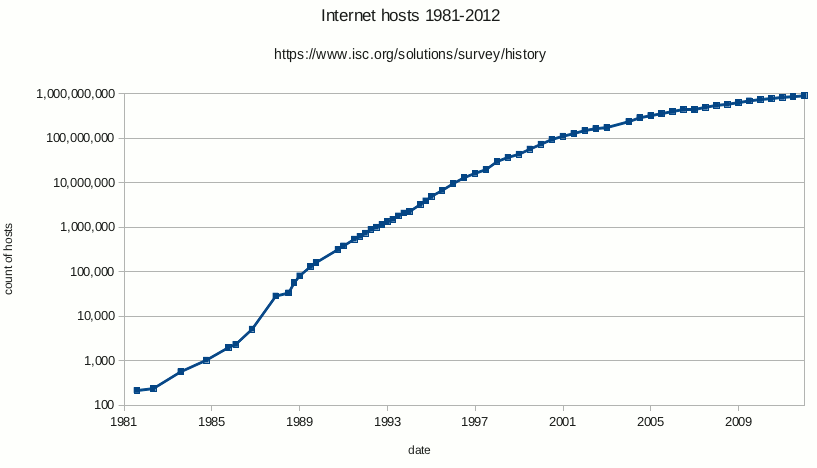
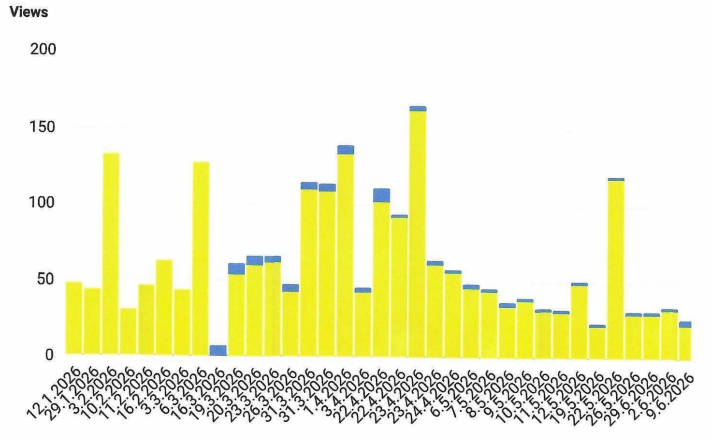
Add magnifying glass

diff --git a/app.js b/app.js
@@ -20,6 +20,10 @@ const emptyState = document.querySelector("#emptyState");
 const chartFrame = document.querySelector("#chartFrame");
 const canvas = document.querySelector("#chartCanvas");
 const ctx = canvas.getContext("2d");
+const magnifier = {
+  radiusCss: 74,
+  zoom: 3,
+};
 
 const state = {
   mode: "calibrate",
@@ -341,6 +345,86 @@ function drawHover(point) {
   ctx.restore();
 }
 
+function drawMagnifier(point) {
+  if (!point || !state.image) return;
+
+  const rect = canvas.getBoundingClientRect();
+  if (!rect.width || !rect.height) return;
+
+  const canvasPerCssPixel = (canvas.width / rect.width + canvas.height / rect.height) / 2;
+  const radius = magnifier.radiusCss * canvasPerCssPixel;
+  const sourceRadius = radius / magnifier.zoom;
+  const sourceLeft = point.x - sourceRadius;
+  const sourceTop = point.y - sourceRadius;
+  const clippedLeft = Math.max(0, sourceLeft);
+  const clippedTop = Math.max(0, sourceTop);
+  const clippedRight = Math.min(canvas.width, point.x + sourceRadius);
+  const clippedBottom = Math.min(canvas.height, point.y + sourceRadius);
+  const sourceWidth = clippedRight - clippedLeft;
+  const sourceHeight = clippedBottom - clippedTop;
+
+  if (sourceWidth <= 0 || sourceHeight <= 0) return;
+
+  ctx.save();
+  ctx.beginPath();
+  ctx.arc(point.x, point.y, radius, 0, Math.PI * 2);
+  ctx.clip();
+  ctx.fillStyle = "white";
+  ctx.fillRect(point.x - radius, point.y - radius, radius * 2, radius * 2);
+  ctx.imageSmoothingEnabled = false;
+  ctx.drawImage(
+    state.image,
+    clippedLeft,
+    clippedTop,
+    sourceWidth,
+    sourceHeight,
+    point.x - radius + (clippedLeft - sourceLeft) * magnifier.zoom,
+    point.y - radius + (clippedTop - sourceTop) * magnifier.zoom,
+    sourceWidth * magnifier.zoom,
+    sourceHeight * magnifier.zoom,
+  );
+  ctx.restore();
+
+  const lineWidth = 2 * canvasPerCssPixel;
+  const reticleOuter = 18 * canvasPerCssPixel;
+  const reticleGap = 4 * canvasPerCssPixel;
+  const reticleDot = 2.6 * canvasPerCssPixel;
+
+  ctx.save();
+  ctx.shadowColor = "rgba(15, 23, 42, 0.28)";
+  ctx.shadowBlur = 10 * canvasPerCssPixel;
+  ctx.shadowOffsetY = 3 * canvasPerCssPixel;
+  ctx.strokeStyle = "white";
+  ctx.lineWidth = 5 * canvasPerCssPixel;
+  ctx.beginPath();
+  ctx.arc(point.x, point.y, radius, 0, Math.PI * 2);
+  ctx.stroke();
+  ctx.shadowColor = "transparent";
+  ctx.strokeStyle = getCssVar("--accent");
+  ctx.lineWidth = lineWidth;
+  ctx.stroke();
+
+  ctx.lineCap = "round";
+  ctx.strokeStyle = "rgba(15, 23, 42, 0.86)";
+  ctx.lineWidth = lineWidth;
+  ctx.beginPath();
+  ctx.moveTo(point.x - reticleOuter, point.y);
+  ctx.lineTo(point.x - reticleGap, point.y);
+  ctx.moveTo(point.x + reticleGap, point.y);
+  ctx.lineTo(point.x + reticleOuter, point.y);
+  ctx.moveTo(point.x, point.y - reticleOuter);
+  ctx.lineTo(point.x, point.y - reticleGap);
+  ctx.moveTo(point.x, point.y + reticleGap);
+  ctx.lineTo(point.x, point.y + reticleOuter);
+  ctx.stroke();
+
+  ctx.fillStyle = "rgba(220, 38, 38, 0.9)";
+  ctx.beginPath();
+  ctx.arc(point.x, point.y, reticleDot, 0, Math.PI * 2);
+  ctx.fill();
+  ctx.restore();
+}
+
 function draw() {
   ctx.clearRect(0, 0, canvas.width, canvas.height);
   if (!state.image) return;
@@ -356,6 +440,7 @@ function draw() {
     });
   }
   drawHover(state.hover);
+  drawMagnifier(state.hover);
 }
 
 function getCssVar(name) {

diff --git a/docs/tools/csv-editor.md b/docs/tools/csv-editor.md
@@ -1,0 +1,37 @@
+# CSV Editor
+
+Der CSV Editor ist ein statisches Browser-Werkzeug zum Importieren, Pruefen,
+Bearbeiten, Filtern, Sortieren und Exportieren von CSV-Daten.
+
+## Oeffnen
+
+Der Quellcode ist als Submodule eingebunden:
+
+```text
+external/csv-editor
+```
+
+Lokal starten:
+
+```bash
+cd external/csv-editor
+python3 -m http.server 8001
+```
+
+Danach ist der Editor unter `http://127.0.0.1:8001/` erreichbar.
+
+## Funktionen
+
+- CSV per Drag-and-drop, Dateiauswahl oder Paste importieren.
+- Separator automatisch erkennen oder manuell waehlen.
+- Tabellenstruktur validieren.
+- Daten als Tabelle bearbeiten.
+- Zeilen und Spalten einfuegen oder loeschen.
+- Sortieren, Filtern und Transponieren.
+- Aktuelle Ansicht kopieren, als Markdown kopieren, als CSV herunterladen oder
+  als XLSX exportieren.
+
+## Repository
+
+- GitHub: <https://github.com/risajef/csv-editor>
+- Submodule: `external/csv-editor`

diff --git a/.codex/tool-addition-workflow.md b/.codex/tool-addition-workflow.md
@@ -36,8 +36,10 @@ and README if useful. Keep workflow memory in `.codex/`.
 
 4. Add or update public docs.
 
-   - Add `docs/projects/NAME.de.md`.
-   - Add the project to `mkdocs.yml` under `Projekte`.
+   - Add `docs/projects/NAME.de.md` for the project overview.
+   - If the site uses a `Tools` section, add `docs/tools/NAME.md` too.
+   - Add the project to `mkdocs.yml` under `Projekte` and, when present,
+     under `Tools`.
    - Add a dated entry to `docs/news.de.md`.
    - Add the submodule path, repository, branch, and commit to
      `docs/submodules.de.md`.

diff --git a/docs/index.de.md b/docs/index.de.md
@@ -11,6 +11,9 @@ ein statisches Hosting gestartet werden.
 | [Reverse Chart](projects/reverse-chart.de.md) | Werte aus Diagramm-Bildern ueber Kalibrierpunkte auslesen. | Dieses Repository |
 | [CSV Editor](projects/csv-editor.de.md) | CSV-Dateien importieren, pruefen, filtern, sortieren und exportieren. | Submodule `external/csv-editor` |
 
+Der CSV Editor ist zusaetzlich in der Tool-Navigation unter
+[Tools / CSV Editor](tools/csv-editor.md) verlinkt.
+
 ## Schnellstart
 
 ```bash
